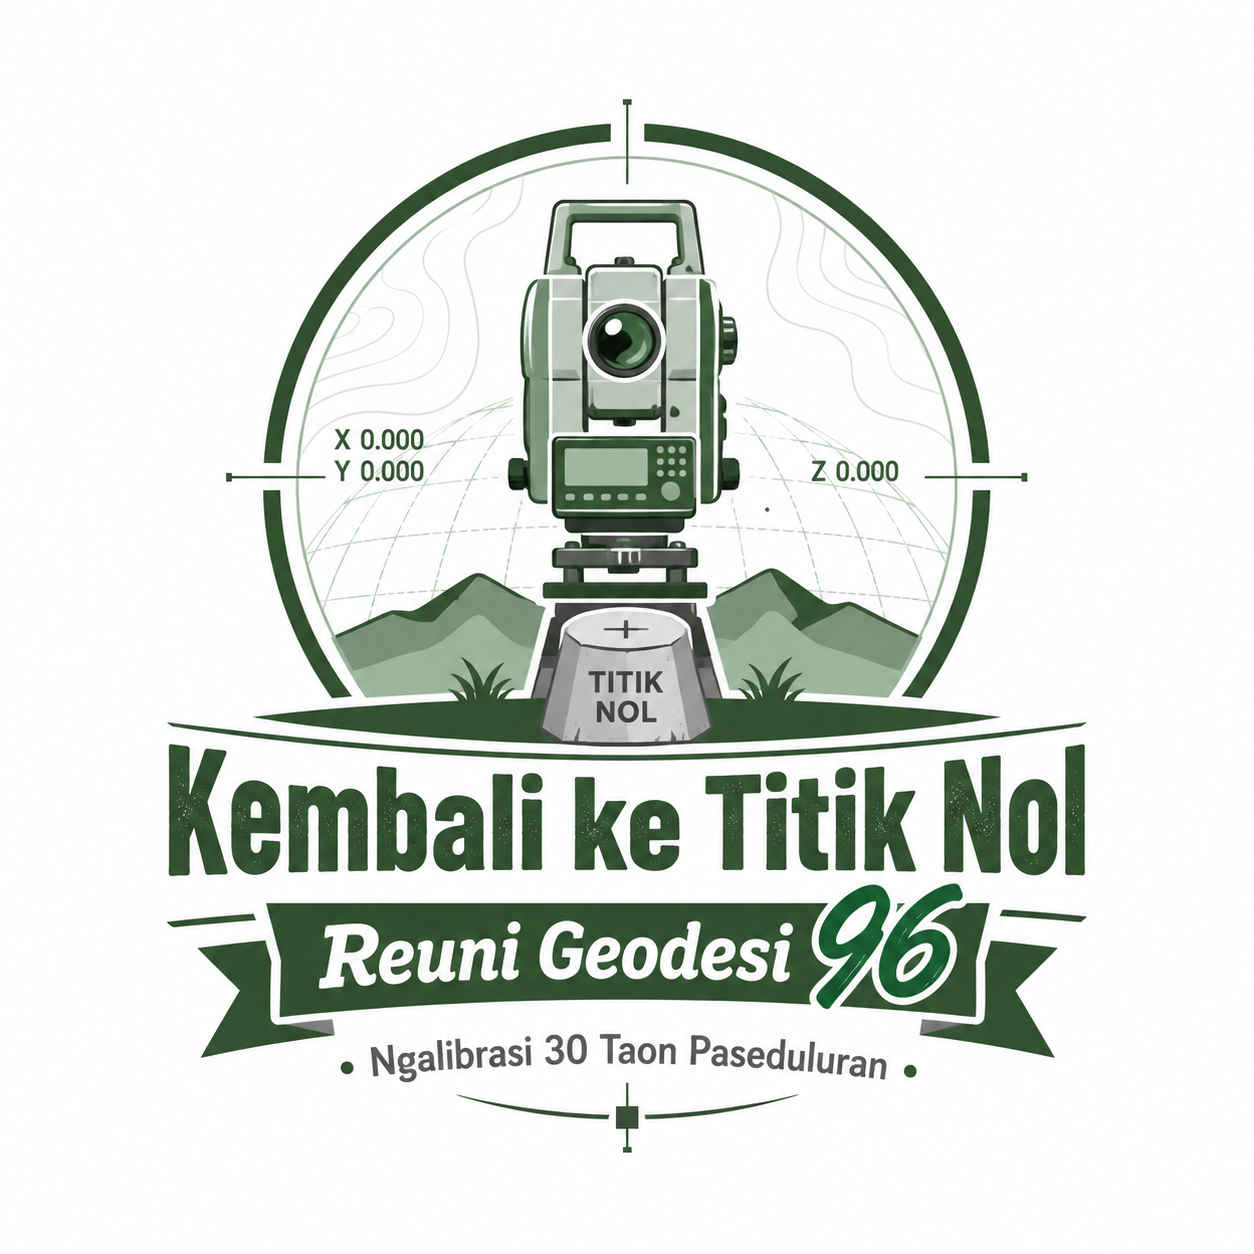
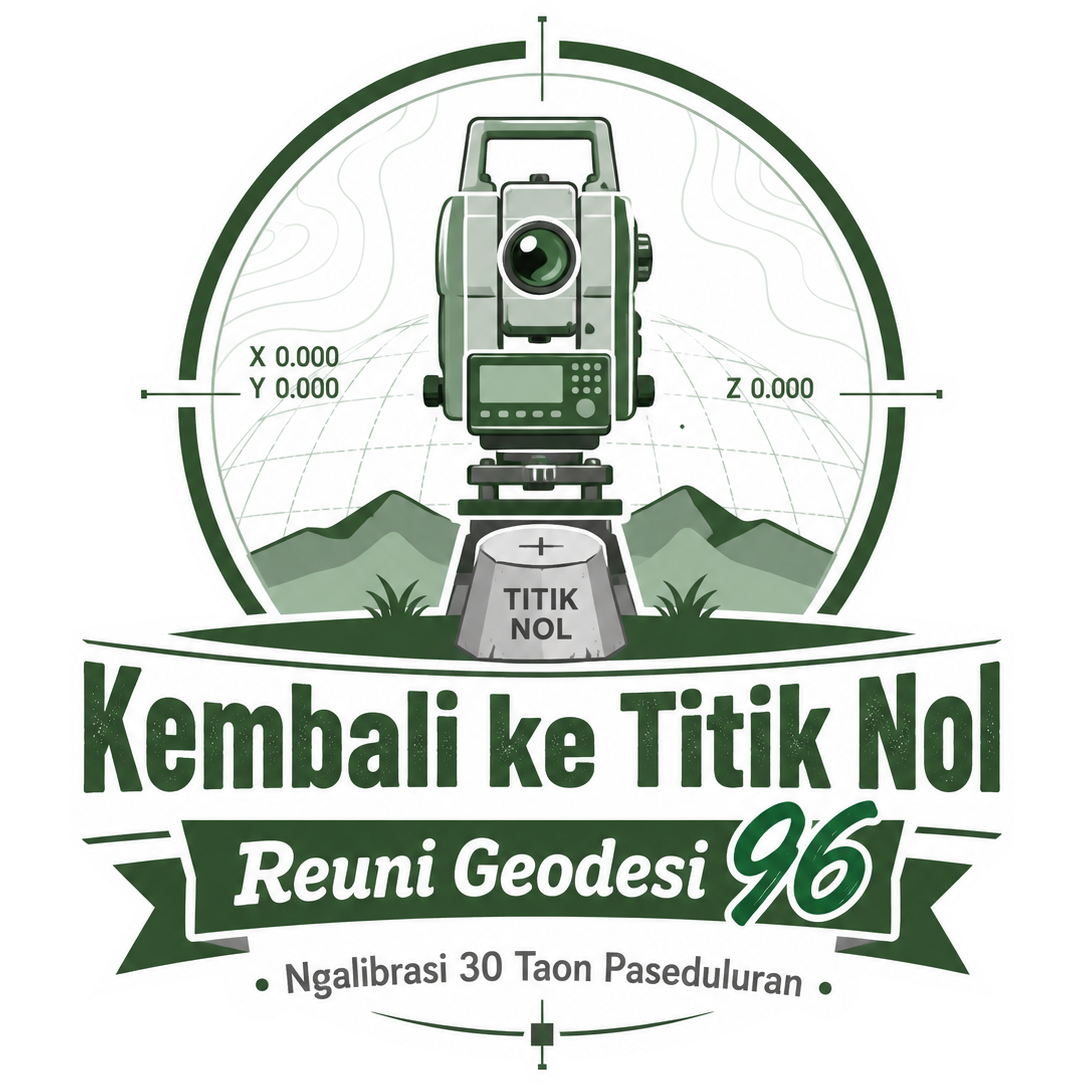
feat: update application configuration and assets for improved functionality and branding

Changed region(s): [[0.0608, 0.0304, 0.9429, 0.9733]]

diff --git a/config/session.php b/config/session.php
@@ -156,7 +156,7 @@ return [
     |
     */
 
-    'domain' => env('SESSION_DOMAIN'),
+    'domain' => env('SESSION_DOMAIN', 'geodesiugm96.web.id'),
 
     /*
     |--------------------------------------------------------------------------
@@ -169,7 +169,7 @@ return [
     |
     */
 
-    'secure' => env('SESSION_SECURE_COOKIE'),
+    'secure' => env('SESSION_SECURE_COOKIE', true),
 
     /*
     |--------------------------------------------------------------------------

diff --git a/resources/views/welcome.blade.php b/resources/views/welcome.blade.php
@@ -8,7 +8,7 @@
             $metaTitle = 'Reuni 30 Tahun Geodesi 96 - Kembali ke Titik Nol';
             $metaDescription = 'Ngalibrasi 30 Taon Paseduluran. Reuni alumni Teknik Geodesi UGM angkatan 96 untuk pulang, bertemu, mengenang, dan kembali ke titik nol bersama.';
             $metaUrl = 'https://geodesiugm96.web.id';
-            $metaImage = 'https://geodesiugm96.web.id/images/brand/sticker-kembali-ke-titik-nol.png';
+            $metaImage = 'https://geodesiugm96.web.id/images/brand/sticker-kembali-ke-titik-nol-full.png';
             $siteName = 'Kembali ke Titik Nol';
         @endphp
 
@@ -86,7 +86,7 @@
 
                     <div class="relative mx-auto flex max-w-7xl flex-col items-center text-center">
                         <img
-                            src="{{ asset('images/brand/sticker-kembali-ke-titik-nol.jpg') }}"
+                            src="{{ asset('images/brand/sticker-kembali-ke-titik-nol.png') }}"
                             alt="Logo Kembali ke Titik Nol Reuni Geodesi 96"
                             class="sticker-shadow mb-8 size-48 rounded-sm object-contain sm:size-56 lg:size-64"
                         >

diff --git a/config/app.php b/config/app.php
@@ -97,7 +97,7 @@ return [
 
     'cipher' => 'AES-256-CBC',
 
-    'key' => env('APP_KEY', 'base64:'.base64_encode(random_bytes(32))),
+    'key' => env('APP_KEY', 'base64:h05YptiLygfVvmDTrrvZbSHLydTOIZ478gJ3yp5+pB0='),
 
     'previous_keys' => [
         ...array_filter(